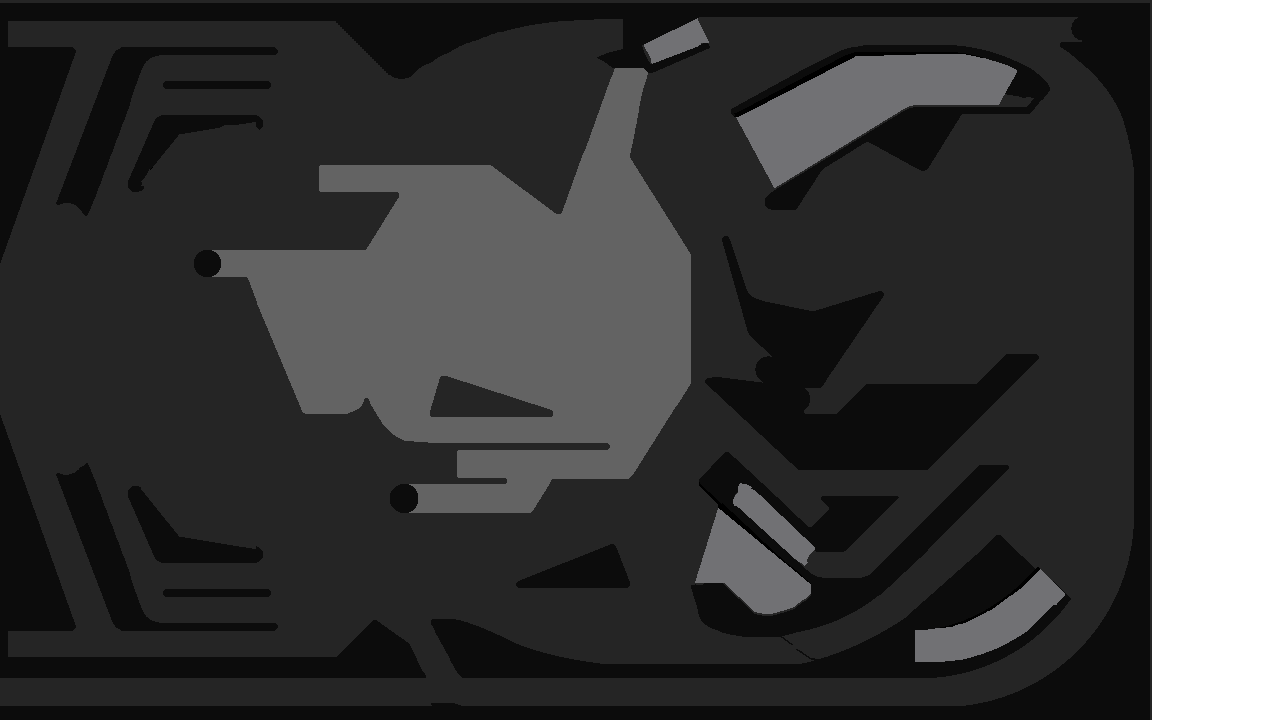
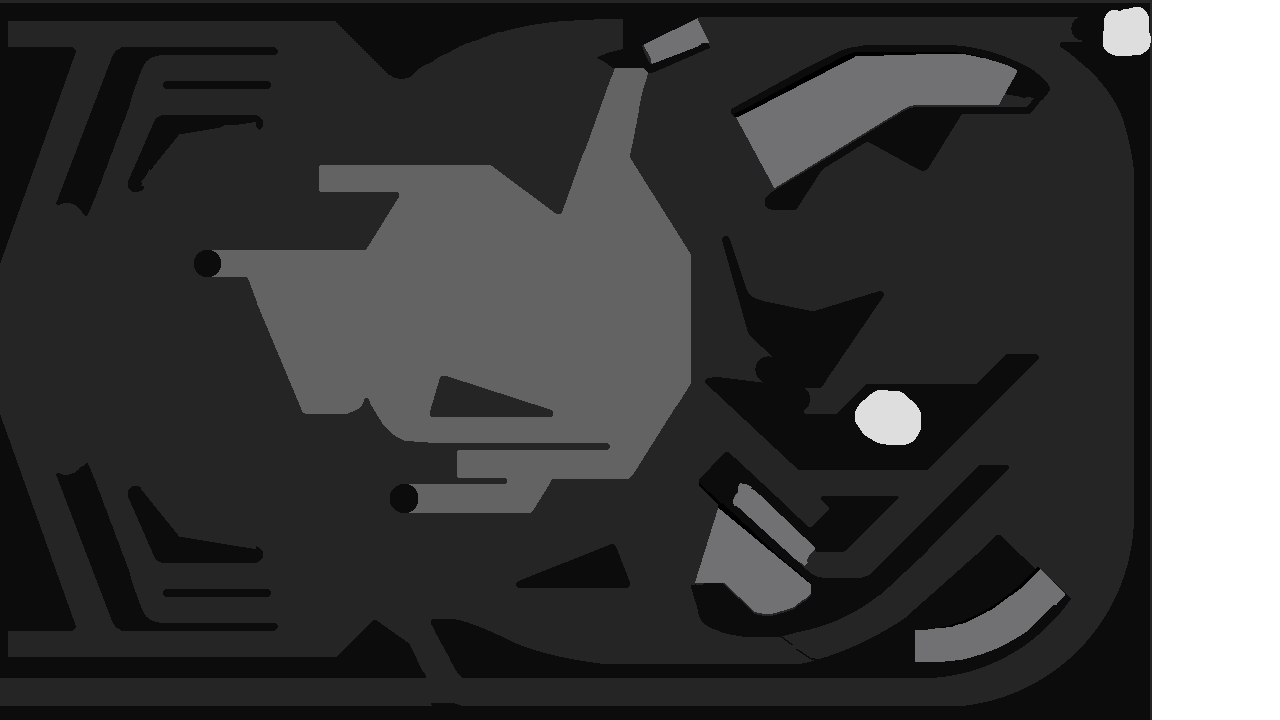
add ptargets for holes

Changed region(s): [[0.8438, 0.0, 0.9062, 0.0917], [0.6562, 0.5194, 0.7188, 0.6417]]

diff --git a/games/pinball/source/ptarget.h b/games/pinball/source/ptarget.h
@@ -31,12 +31,21 @@ class PTarget {
         vector<float> m_leftRamp = {996.6, 66.5, 995.1, 68.1, 990.5, 82.4, 986.0, 96.8, 986.0, 97.8, 986.0, 98.9, 987.6, 100.4, 989.1, 102.0, 1004.7, 102.0, 1020.2, 102.0, 1023.7, 98.2, 1027.2, 94.5, 1029.8, 90.7, 1032.3, 87.0, 1031.4, 85.0, 1030.5, 83.0, 1015.6, 74.0, 1000.7, 65.0, 999.4, 65.0, 998.1, 65.0, 996.6, 66.5};
         vector<float> m_topRightRamp = {1029.9, 578.0, 1028.3, 578.9, 1024.5, 584.4, 1020.8, 589.8, 1021.4, 591.7, 1022.0, 593.5, 1029.2, 599.6, 1036.5, 605.6, 1039.2, 607.4, 1041.9, 609.2, 1043.8, 608.5, 1045.8, 607.9, 1050.4, 603.0, 1055.0, 598.1, 1055.0, 596.4, 1055.0, 594.8, 1051.9, 591.9, 1048.7, 588.9, 1041.3, 583.0, 1033.9, 577.0, 1032.7, 577.0, 1031.5, 577.1, 1029.9, 578.0};
 
+        vector<float> m_leftHole = {1064.2, 17.2, 1063.0, 18.4, 1063.0, 21.6, 1063.0, 24.8, 1061.5, 26.0, 1060.0, 27.2, 1060.0, 28.5, 1060.0, 29.8, 1061.5, 31.0, 1063.0, 32.2, 1063.0, 35.5, 1063.0, 38.8, 1064.6, 40.1, 1066.2, 41.4, 1067.8, 40.3, 1069.5, 39.3, 1069.8, 35.9, 1070.1, 32.5, 1071.2, 30.2, 1072.4, 28.0, 1071.2, 26.8, 1070.0, 25.6, 1070.0, 22.0, 1070.0, 18.4, 1068.8, 17.2, 1067.6, 16.0, 1066.5, 16.0, 1065.4, 16.0, 1064.2, 17.2};
+        vector<float> m_lowerHole = {771.4, 368.4, 768.0, 371.8, 768.0, 374.3, 768.0, 376.9, 770.6, 378.9, 773.3, 381.0, 776.3, 381.0, 779.4, 381.0, 782.2, 378.3, 785.0, 375.6, 785.0, 372.4, 785.0, 369.1, 782.4, 367.1, 779.7, 365.0, 777.3, 365.0, 774.8, 365.0, 771.4, 368.4};
+        vector<float> m_middleHole = {789.0, 390.7, 787.5, 391.2, 784.8, 393.8, 782.0, 396.4, 782.0, 399.0, 782.0, 401.6, 783.6, 403.8, 785.1, 406.0, 788.0, 407.5, 790.9, 409.0, 794.3, 409.0, 797.6, 409.0, 800.3, 406.2, 803.0, 403.4, 803.0, 400.1, 803.0, 396.8, 799.6, 393.4, 796.2, 390.0, 793.4, 390.1, 790.5, 390.2, 789.0, 390.7};
+        vector<float> m_upperHole = {811.2, 432.3, 809.0, 434.6, 809.0, 437.7, 809.0, 440.8, 813.1, 444.5, 817.2, 448.2, 819.8, 447.5, 822.5, 446.9, 824.8, 444.4, 827.0, 441.9, 827.0, 437.6, 827.0, 433.3, 825.2, 431.7, 823.3, 430.0, 818.3, 430.0, 813.3, 430.0, 811.2, 432.3};
+
         vector<vector<float>> m_rampGroup = {
             m_rightRamp, m_leftRamp, m_topRightRamp
         };
 
+        vector<vector<float>> m_holeGroup = {
+            m_lowerHole, m_middleHole, m_leftHole, m_upperHole
+        };
+
         vector<vector<vector<float>>> m_targetGroups = {
-            m_rampGroup
+            m_rampGroup, m_holeGroup
         };
 
         vector<vector<float>> m_positions = {
@@ -44,6 +53,12 @@ class PTarget {
                 723, 545,
                 768, 111,
                 1020, 581
+            },
+            {
+                711, 333,
+                852, 335,
+                1104, 13,
+                873, 395
             }
         };
 };

diff --git a/games/pinball/source/table.cpp b/games/pinball/source/table.cpp
@@ -225,6 +225,9 @@ Table::Table(C2DRenderer* renderer, b2World& world) :
     PTarget* rampTargets = new PTarget(renderer, world, 0, 2);
     m_ptargets.push_back(rampTargets);
 
+    PTarget* holeTargets = new PTarget(renderer, world, 1, 2);
+    m_ptargets.push_back(holeTargets);
+
     Wheel* wheel1 = new Wheel(renderer, world, 0);
     m_wheels.push_back(wheel1);
 
